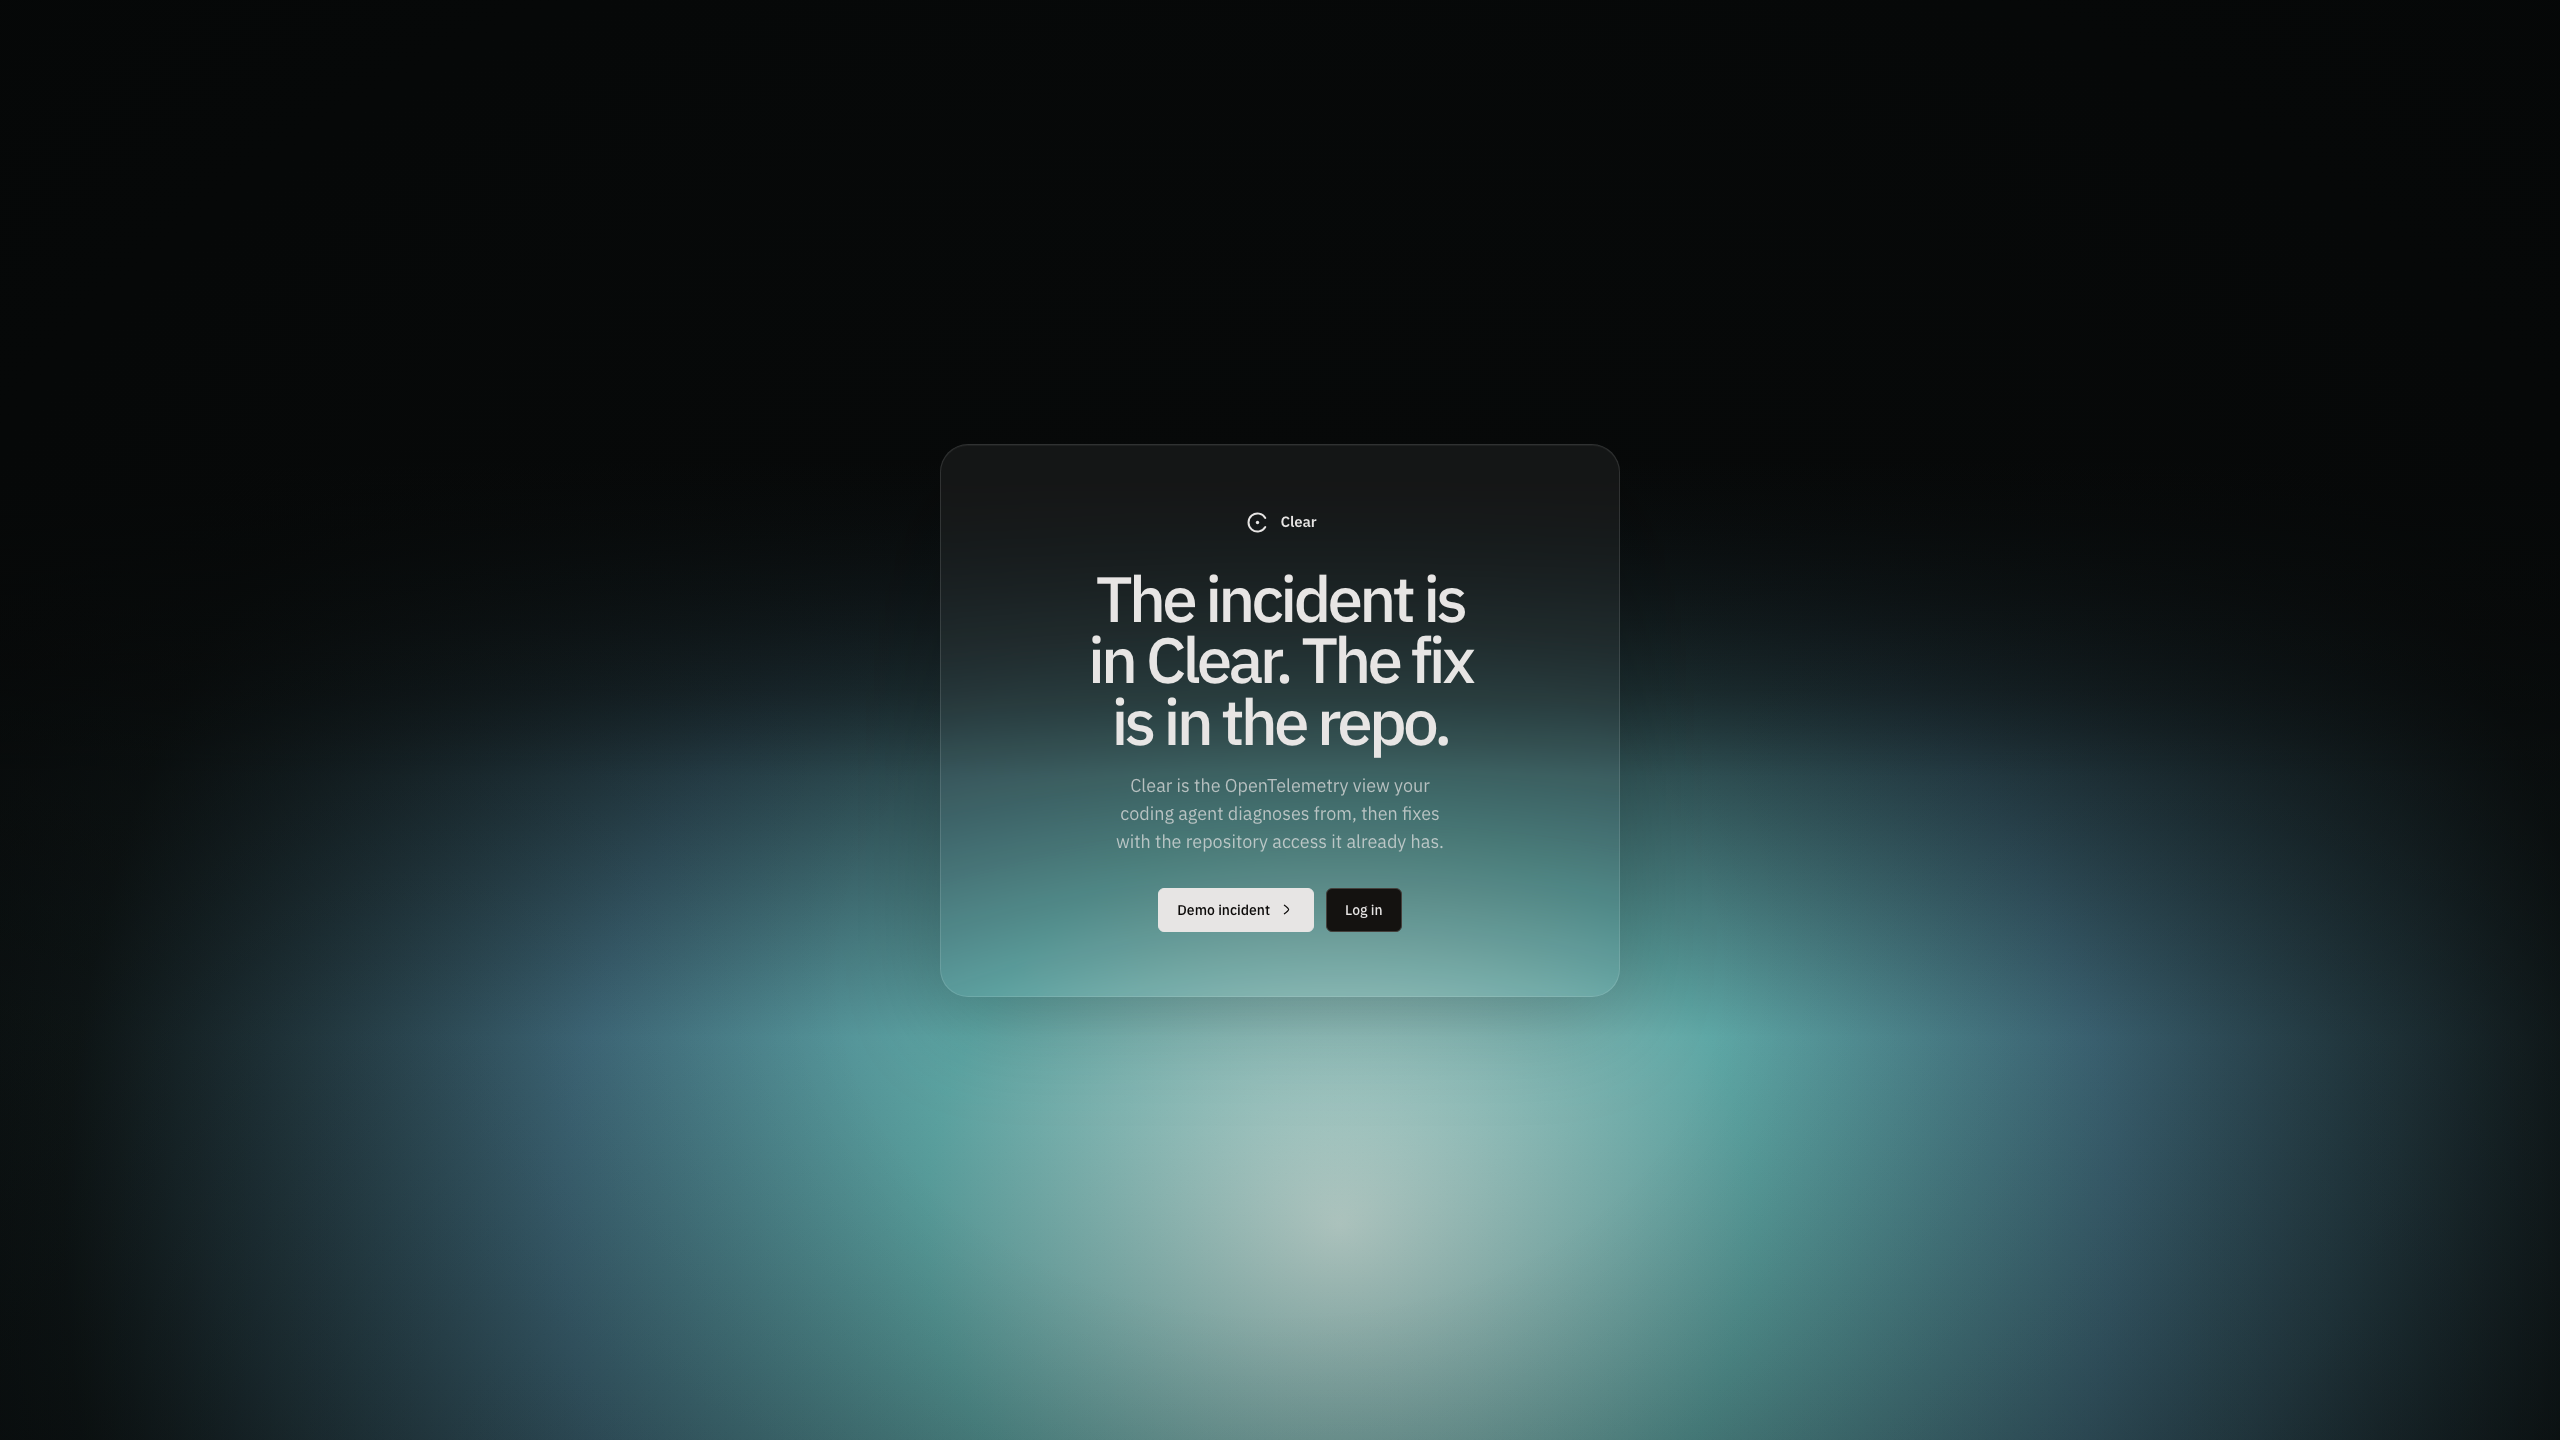
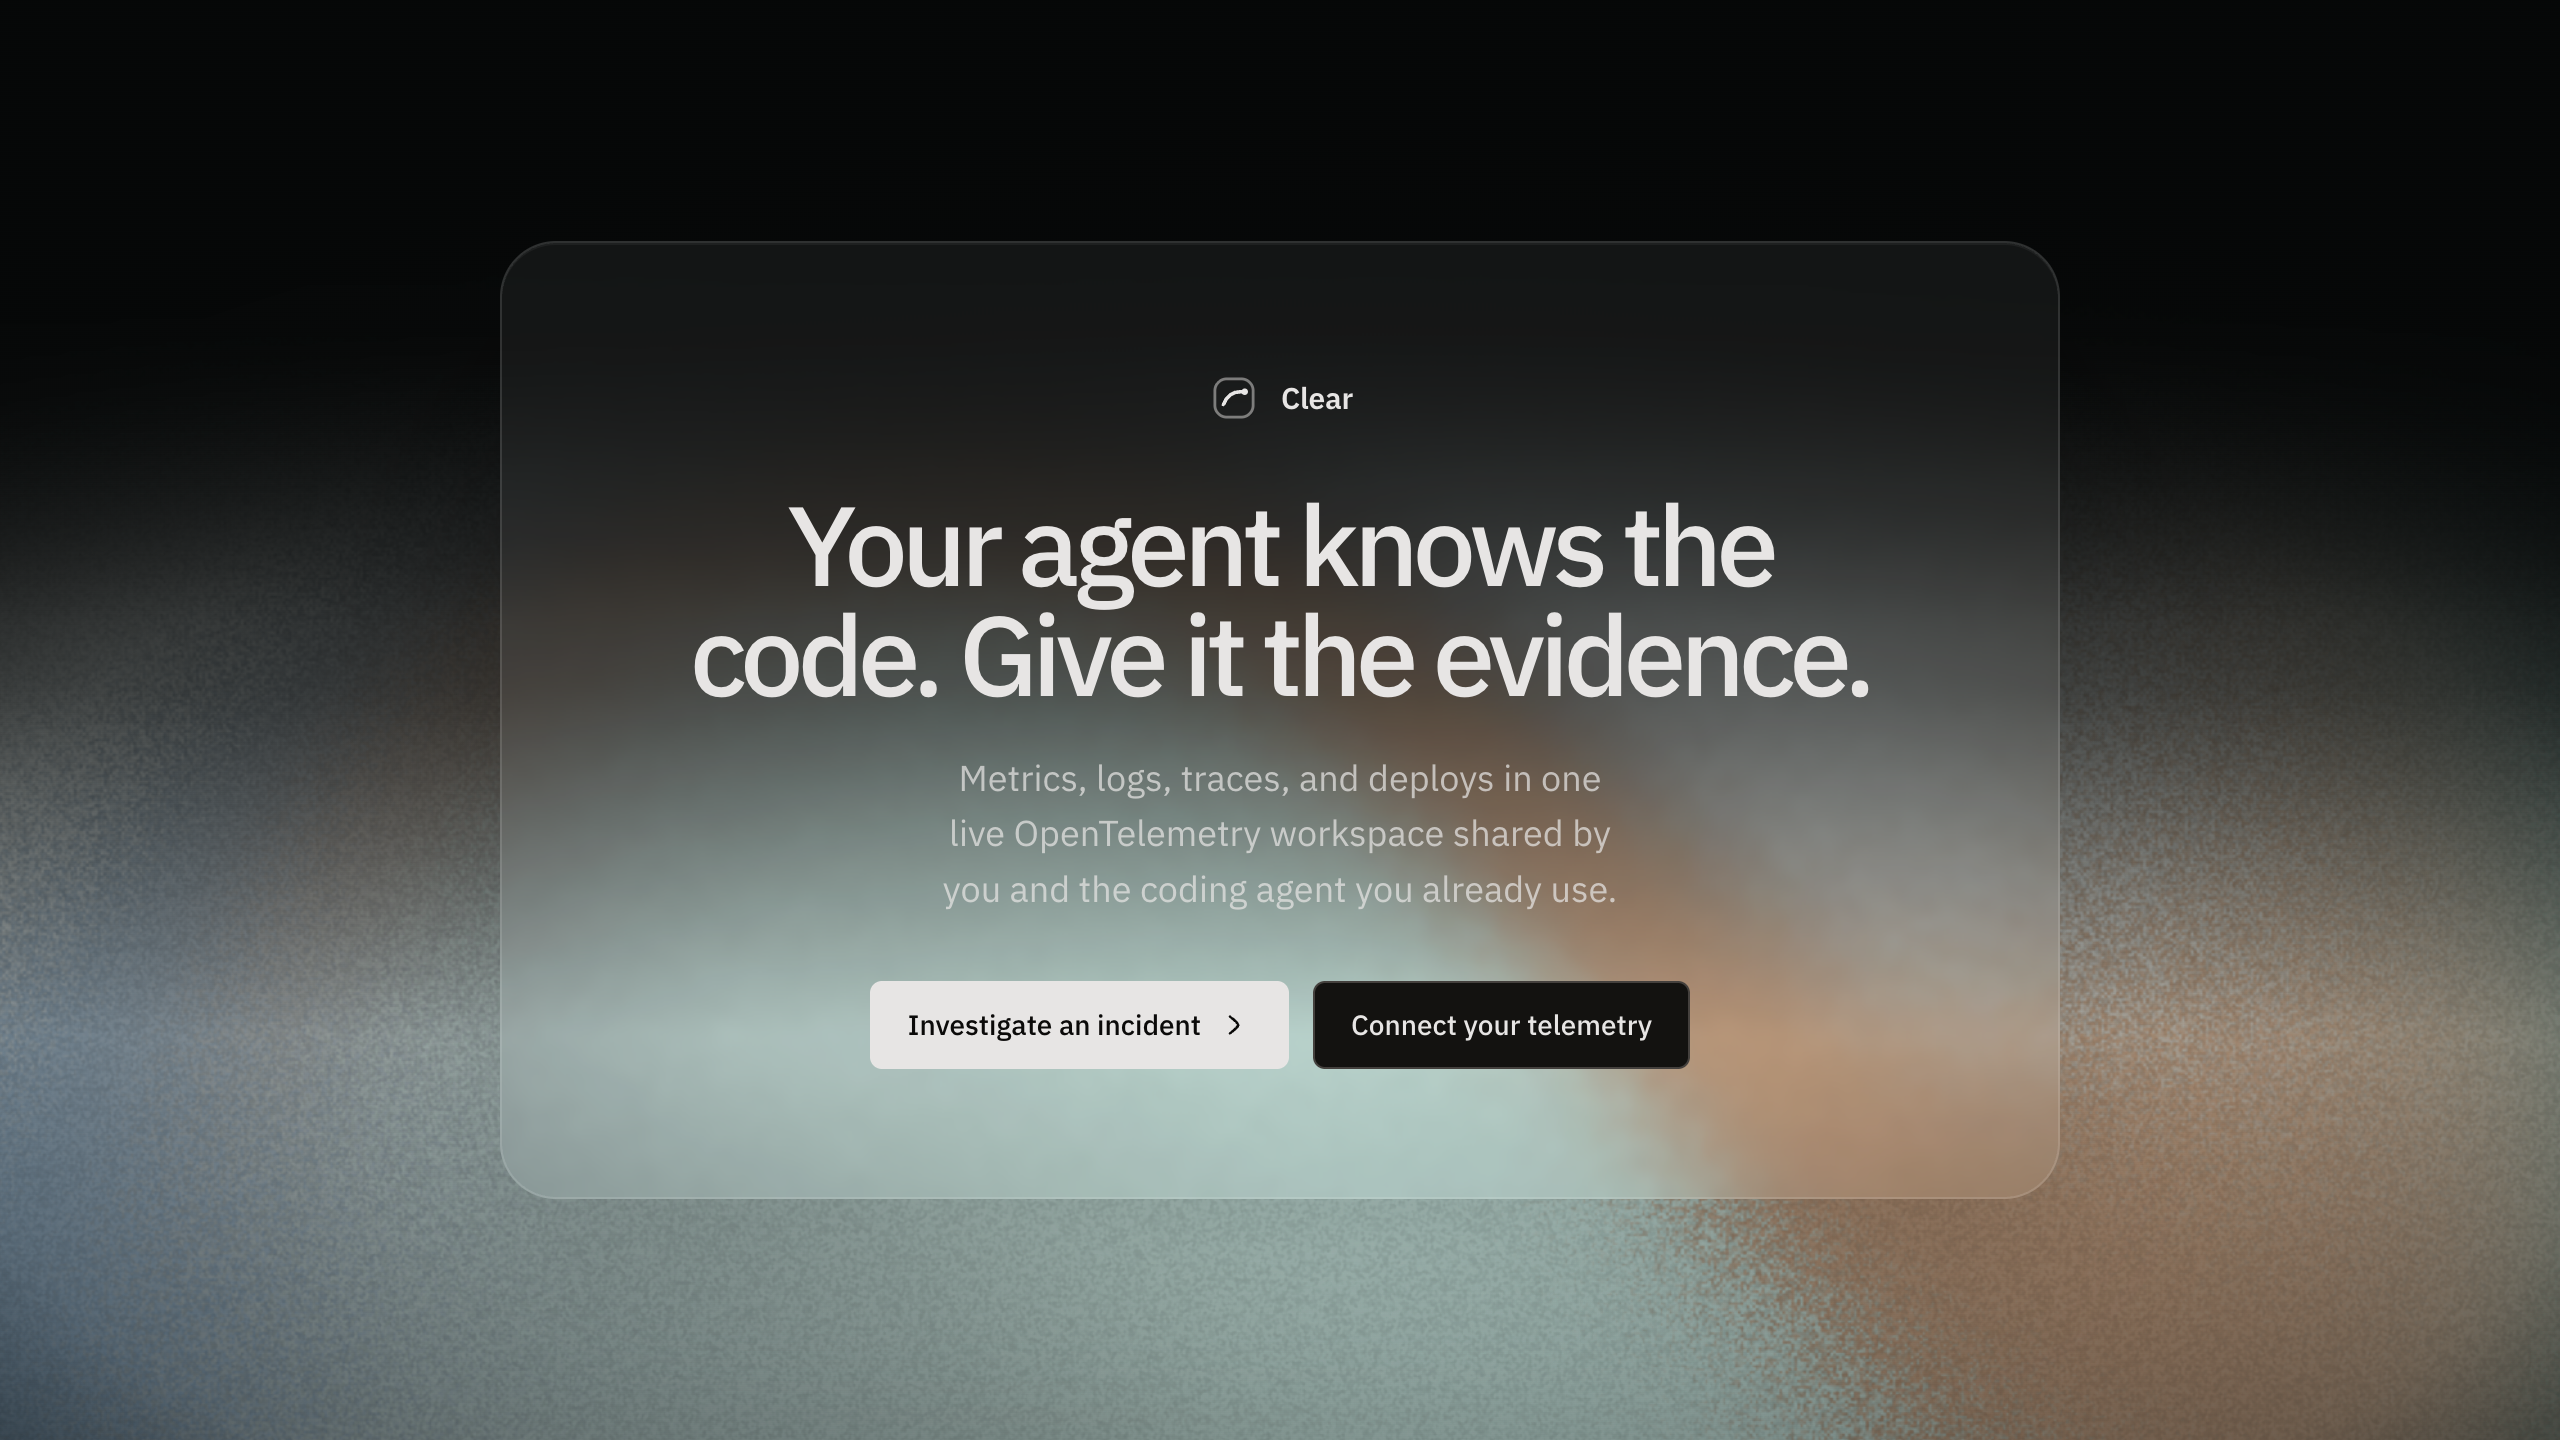
docs: add Devpost submission media

diff --git a/media/devpost/README.md b/media/devpost/README.md
@@ -6,17 +6,20 @@ This folder turns real Clear and Codex captures into the final Devpost gallery s
 
 Capture every source at 2560 by 1440 without browser chrome. Keep the same sandbox session and incident window across the board, trace, log, and recovery images.
 
-| File                         | Capture                                                     |
-| ---------------------------- | ----------------------------------------------------------- |
-| `sources/homepage.png`       | Signed-out homepage after the paper shader settles          |
-| `sources/board-reveal.png`   | Requests elevated, users flat, retries visible              |
-| `sources/codex-agent.png`    | Clean Codex task with only the checkout repository attached |
-| `sources/board-agent.png`    | Clear at the same moment as the Codex capture               |
-| `sources/trace-detail.png`   | Real retrying checkout trace with an upstream failure       |
-| `sources/log-detail.png`     | Correlated logs for the same service and time window        |
-| `sources/recovery-board.png` | Real deploy marker with latency and retries recovering      |
+| File                            | Capture                                                     |
+| ------------------------------- | ----------------------------------------------------------- |
+| `sources/homepage.png`          | Signed-out homepage after the paper shader settles          |
+| `sources/homepage-material.png` | Shader-only lower edge derived from `homepage.png`          |
+| `sources/board-reveal.png`      | Requests elevated, users flat, retries visible              |
+| `sources/codex-agent.png`       | Clean Codex task with only the checkout repository attached |
+| `sources/board-agent.png`       | Clear at the same moment as the Codex capture               |
+| `sources/trace-detail.png`      | Real retrying checkout trace with an upstream failure       |
+| `sources/log-detail.png`        | Correlated logs for the same service and time window        |
+| `sources/recovery-board.png`    | Real deploy marker with latency and retries recovering      |
 
 Do not include keys, tokens, local paths, unrelated browser tabs, or unfinished UI. Use the real deployed app and a real Codex task. If a callout disagrees with the captured value or points at the wrong evidence, adjust the manifest before rendering.
+
+`homepage-material.png` is a deterministic crop and resize of the real homepage capture. Regenerate it from `homepage.png`; do not repaint or hand-edit the shader.
 
 ## Final outputs
 
